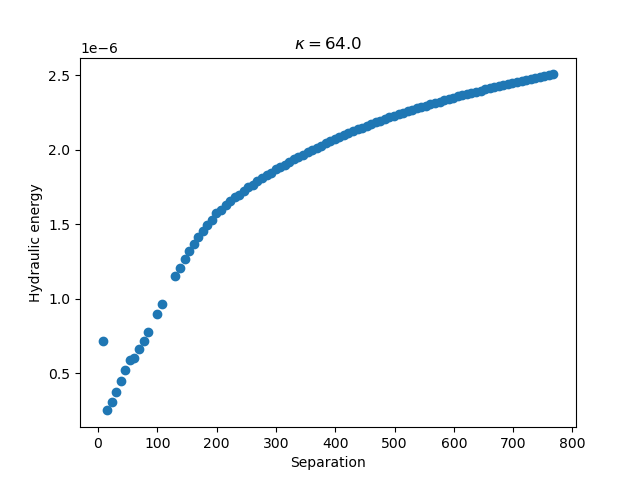
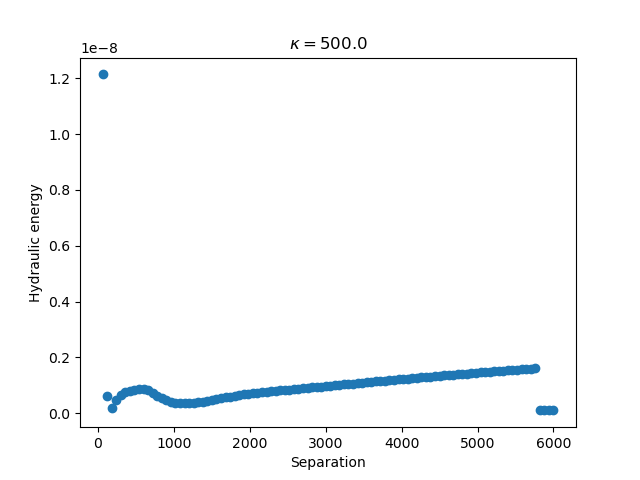
trying k = 50 electrostatic

diff --git a/plot_energy.py b/plot_energy.py
@@ -53,6 +53,7 @@ plt.close()
 plt.scatter(separations, electromagnetic, label = 'Electromagnetic')
 plt.scatter(separations, hydraulic, label = 'Hydraulic')
 plt.scatter(separations, total, label = 'Total')
+plt.ylim(0,1e-9)
 plt.ylabel('Energy')
 plt.xlabel('Separation')
 plt.legend()
